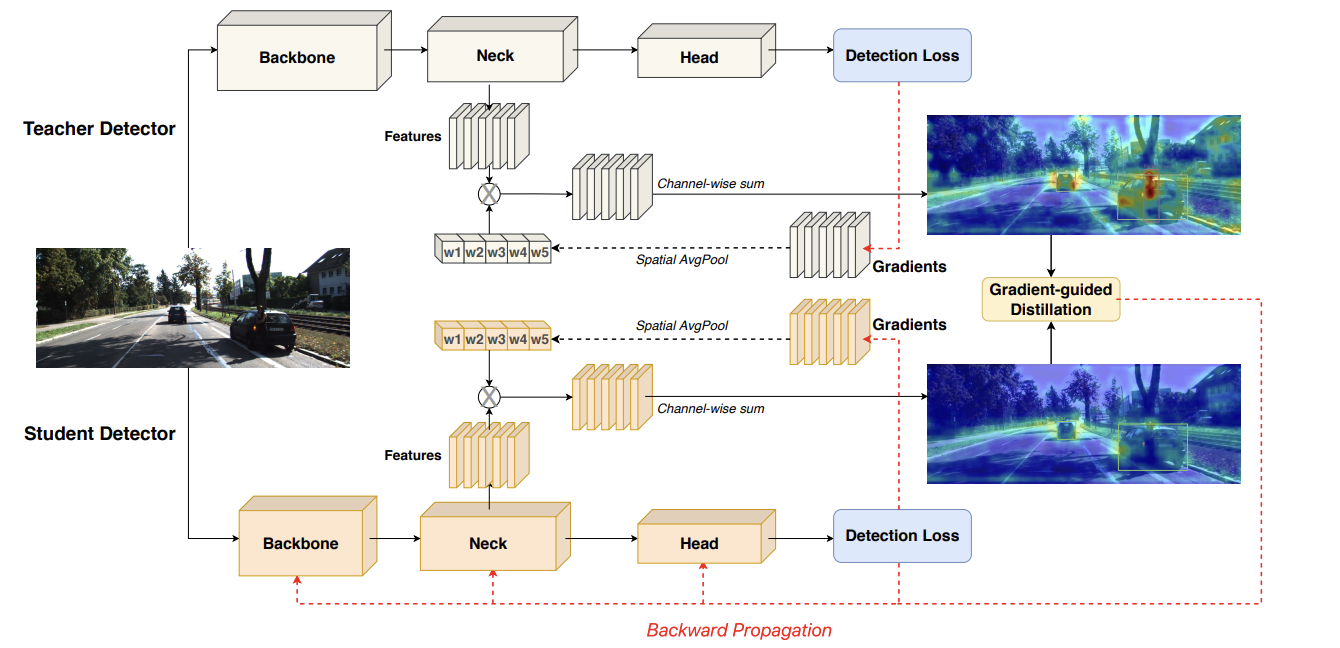
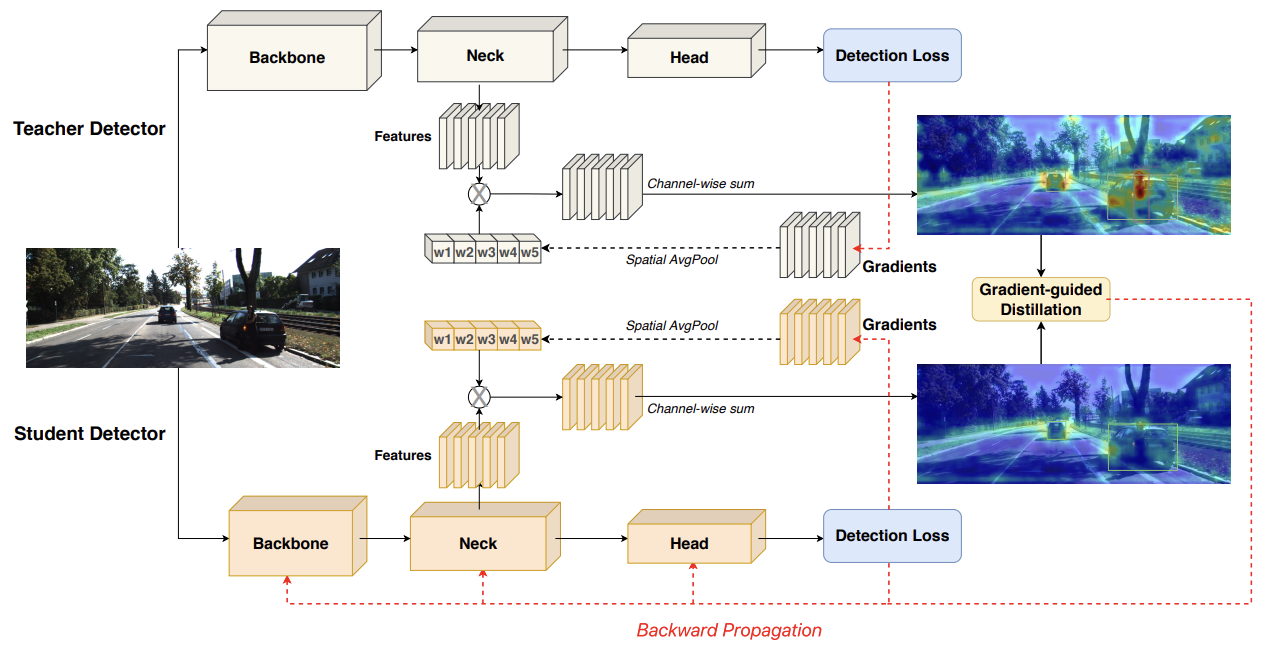
Tighten publication figure previews

diff --git a/styles.css b/styles.css
@@ -296,8 +296,8 @@ h3 {
 
 .publication {
   display: grid;
-  grid-template-columns: 230px minmax(0, 1fr);
-  gap: 22px;
+  grid-template-columns: 250px minmax(0, 1fr);
+  gap: 20px;
   padding: 18px 0;
   border-bottom: 1px solid var(--line);
 }
@@ -307,13 +307,13 @@ h3 {
 }
 
 .pub-image {
+  display: block;
   width: 100%;
-  aspect-ratio: 16 / 9.8;
-  object-fit: contain;
-  padding: 6px;
+  height: auto;
   border: 1px solid #d9dee4;
   border-radius: 2px;
   background: #ffffff;
+  box-shadow: 0 1px 2px rgba(31, 45, 61, 0.08);
 }
 
 .pub-title {
@@ -396,13 +396,13 @@ h3 {
 }
 
 .compact-image {
+  display: block;
   width: 100%;
-  aspect-ratio: 16 / 9.8;
-  object-fit: contain;
-  padding: 4px;
+  height: auto;
   border: 1px solid #d9dee4;
   border-radius: 2px;
   background: #ffffff;
+  box-shadow: 0 1px 2px rgba(31, 45, 61, 0.08);
 }
 
 .compact-title {

diff --git a/data/content.js b/data/content.js
@@ -132,7 +132,7 @@ window.SITE_CONTENT = {
       venue: "MICCAI 2026",
       contribution: "Corresponding author",
       note: "Top 9% provisionally accepted among 4,601 MICCAI 2026 submissions",
-      image: "assets/img/DCD-main.png",
+      image: "assets/img/DCD-main.png?v=20260618-crop",
       links: [
         { label: "Paper", url: "https://arxiv.org/pdf/2605.26382" },
         { label: "Code", url: "https://github.com/ClinicaAlpha/DCD-3D-MedSeg" }
@@ -165,7 +165,7 @@ window.SITE_CONTENT = {
       authors: "Qizhen Lan, Qing Tian",
       venue: "WACV 2024",
       contribution: "First author",
-      image: "assets/img/GKD.png",
+      image: "assets/img/GKD.png?v=20260618-crop",
       links: [
         {
           label: "Paper",